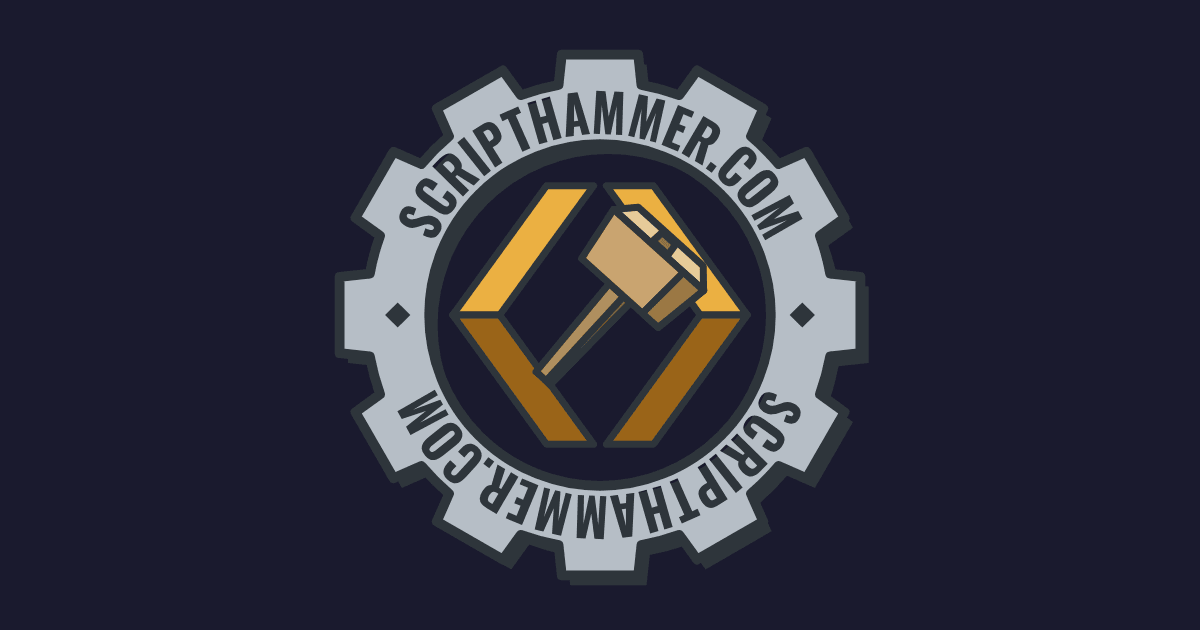
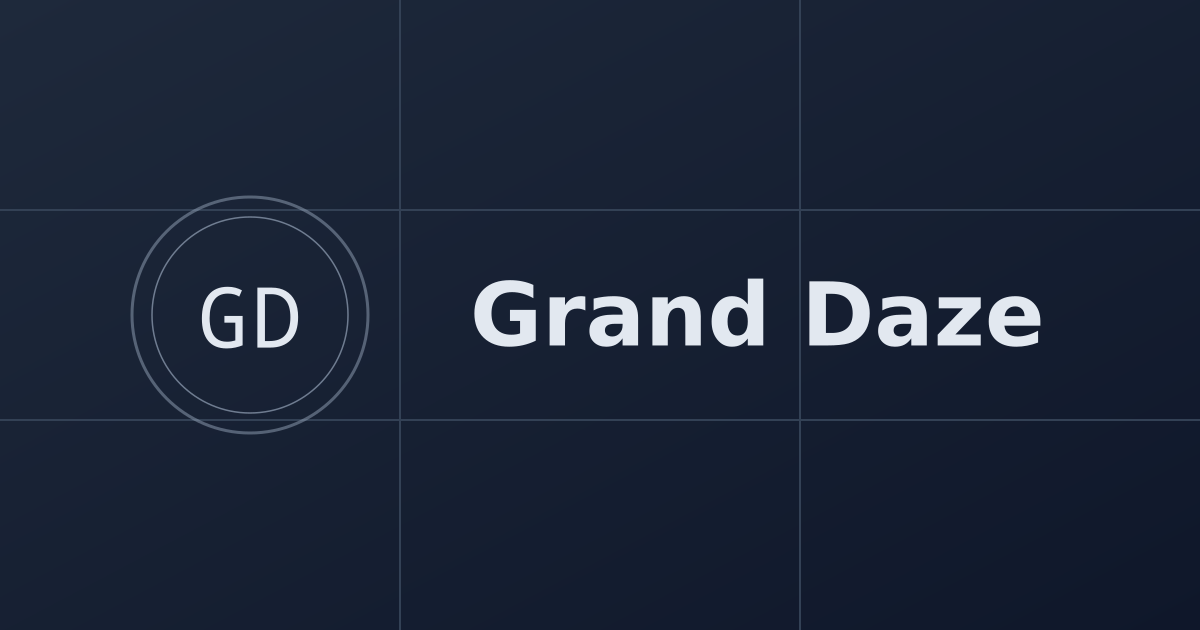
fix: replace the inherited social card with our own
public/opengraph-image.png was 1200x630 of the upstream template's lockup
— gear ring, printing mallet, its domain twice around the rim. That is the
image Slack, LinkedIn, iMessage and Twitter render when anyone pastes a
link to this site, so it reached people who never opened it.

Ported from TortoiseWolfe/ScriptHammer#989 and regenerated for this
project: GD in the ring, "Grand Daze" beside it, on a neutral ground.

DERIVED, NOT DESIGNED. The card draws the two things this project already
knows about itself — its name and the initials of that name. No tagline,
no illustration, no logo, because nothing here knows what Grand Daze looks
like yet, and a plausible invention would be worse than an obvious
placeholder. A test asserts the card contains exactly two text nodes so
that stays true.

Replace public/opengraph-image.png with real 1200x630 artwork whenever
there is some; the generator exists for the meantime, not instead.

Not ported: the rebrand.sh hook from upstream. This repo's rebrand.sh
predates that change and has no matching anchor, and re-rebranding a live
project is not a thing that should happen quietly. Recorded here so the
gap is known rather than discovered.

Verified: the card renders 1200x630 at 60KB with no borrowed artwork, six
unit tests pass, and test:scripts is unchanged at 2 pre-existing failures
(upstream #985 — the committed manifest's start_url and the feed mirror,
both fork defects filed upstream and untouched by this change).

Refs #1

diff --git a/scripts/__tests__/generate-og-image.test.js b/scripts/__tests__/generate-og-image.test.js
@@ -1,0 +1,67 @@
+/**
+ * The social card must be derived from the project's own name (#988 follow-up).
+ *
+ * `public/opengraph-image.png` is 1200x630 of this template's lockup, and it is what
+ * Slack, LinkedIn and iMessage render when anyone pastes a fork's link. Every fork
+ * inherited it — the same borrowed artwork #988 removed from the hero, on the surface
+ * that reaches people who never open the site.
+ *
+ * These test the pure builders, not the raster: sharp is an optional dependency of the
+ * rebrand path, and a test that needs it would not run where the failure matters.
+ */
+
+const { test, describe } = require('node:test');
+const assert = require('node:assert');
+
+const MOD = new URL('../generate-og-image.mjs', `file://${__filename}`).href;
+
+describe('social card derivation', () => {
+  test('initials come from the first two words', async () => {
+    const { initialsOf } = await import(MOD);
+    assert.strictEqual(initialsOf('Grand Daze'), 'GD');
+    assert.strictEqual(initialsOf('grand-daze'), 'GD');
+    assert.strictEqual(initialsOf('widget'), 'W');
+    assert.strictEqual(initialsOf('My Cool App'), 'MC');
+  });
+
+  test('a nameless project still renders something rather than crashing', async () => {
+    const { initialsOf } = await import(MOD);
+    assert.strictEqual(initialsOf(''), '?');
+    assert.strictEqual(initialsOf('   '), '?');
+  });
+
+  test('the card carries the project name and nothing borrowed', async () => {
+    const { cardSvg } = await import(MOD);
+    const svg = cardSvg('Grand Daze');
+    assert.match(svg, /Grand Daze/);
+    assert.match(svg, />GD</);
+    // The whole point. A generated card cannot contain another project's identity.
+    assert.ok(!/scripthammer/i.test(svg), 'the card names another project');
+    assert.ok(!/mallet|gear/i.test(svg), 'the card draws borrowed artwork');
+  });
+
+  test('it invents no tagline or description', async () => {
+    const { cardSvg } = await import(MOD);
+    const svg = cardSvg('Grand Daze');
+    // Two text nodes only: the initials and the name. A script cannot know what a
+    // project does, and guessing is how a template ships someone a false promise.
+    assert.strictEqual((svg.match(/<text/g) || []).length, 2);
+  });
+
+  test('a name with XML metacharacters cannot break the document', async () => {
+    const { cardSvg } = await import(MOD);
+    // A project name is free text a forker supplies — the same class of input that
+    // crashed the rebrand through sed once already.
+    const svg = cardSvg("Ben & Jerry's <script>");
+    assert.ok(!/<script>/.test(svg), 'raw markup reached the SVG');
+    assert.match(svg, /&amp;/);
+    assert.match(svg, /&lt;script&gt;/);
+  });
+
+  test('the canvas is the size the platforms actually render', async () => {
+    const { cardSvg } = await import(MOD);
+    const svg = cardSvg('Anything');
+    assert.match(svg, /width="1200"/);
+    assert.match(svg, /height="630"/);
+  });
+});
